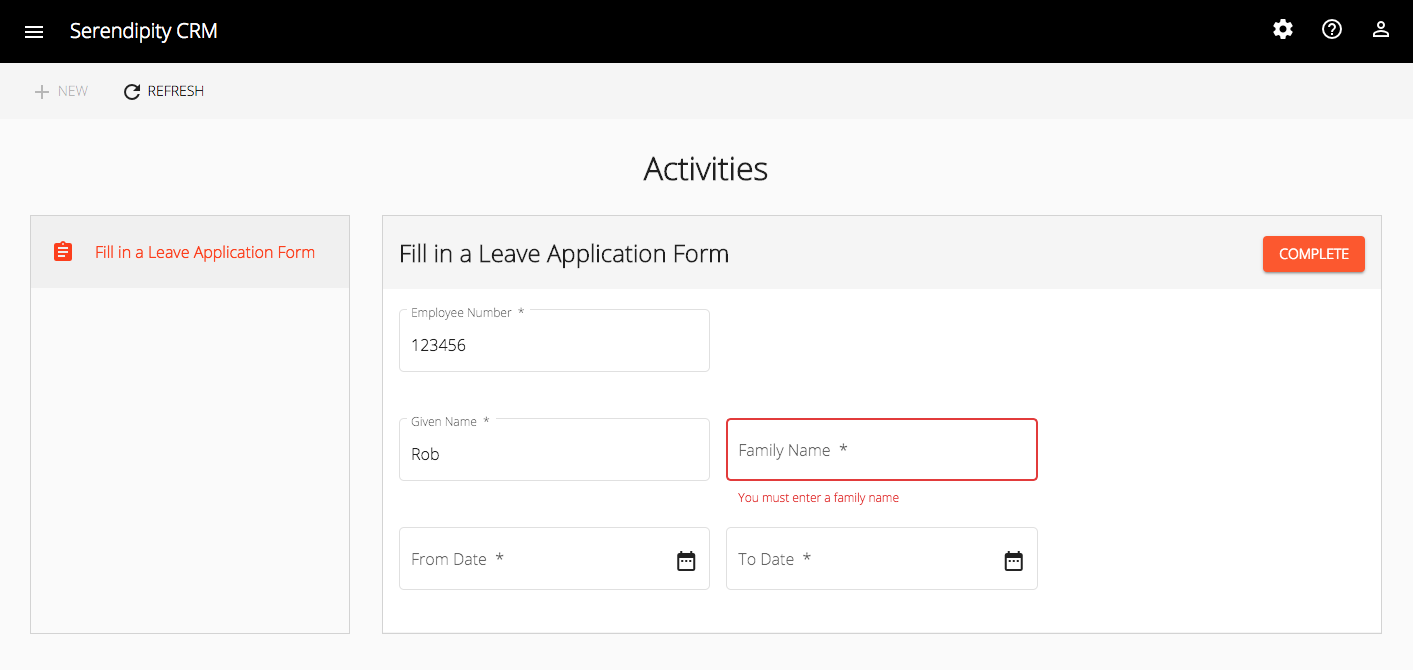
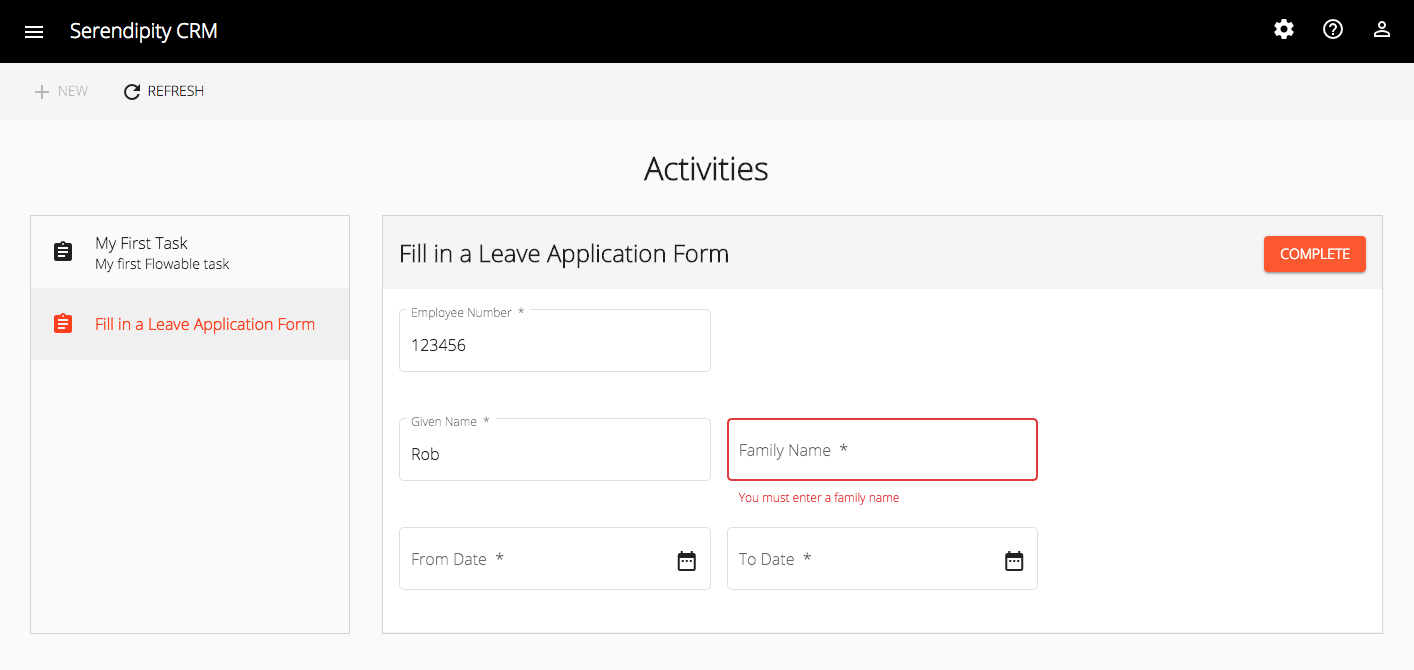
Updated the Task component

diff --git a/projects/flowable/src/lib/services/task-list/task-list.service.ts b/projects/flowable/src/lib/services/task-list/task-list.service.ts
@@ -30,7 +30,7 @@ export class TaskListService {
 
   public getTasks(): Observable<TaskListModel>   {
 
-    const endpoint = `${this.processEngineUriPrefix}runtime/tasks?sort=createTime&order=asc`;
+    const endpoint = `${this.processEngineUriPrefix}runtime/tasks?sort=createTime&order=desc`;
 
     // return this.httpClient.get<any>(endpoint, httpOptions).pipe(
     return this.httpClient.get<any>(endpoint, httpOptions).pipe(
